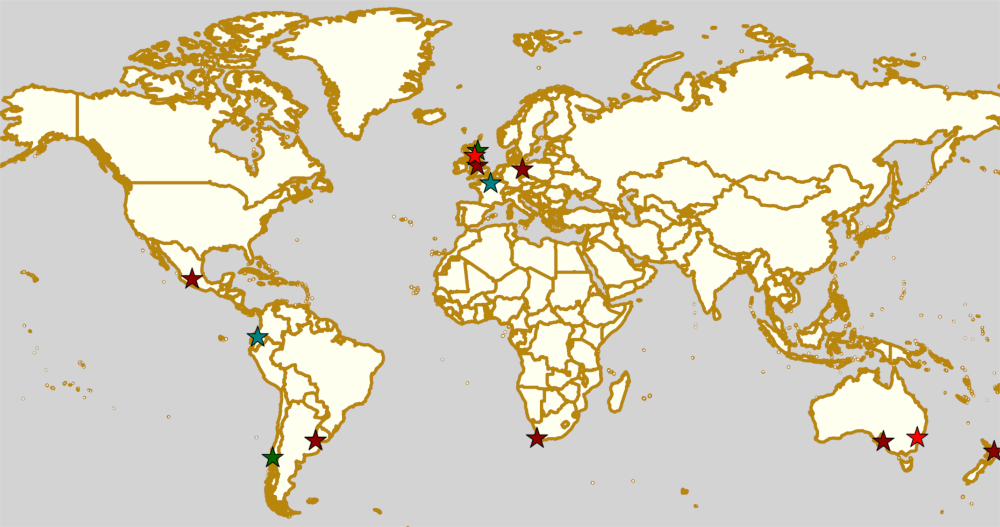
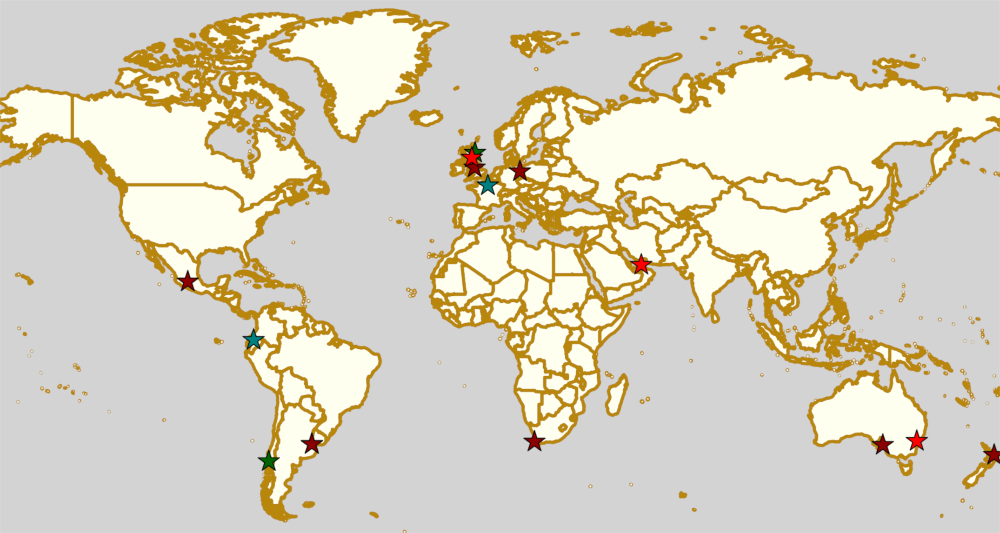
Add UAE Monday events, late announced, to the 03 Aug highlights + map

diff --git a/output/posts/highlights/2019/weekendhighlights-03082019/index.html b/output/posts/highlights/2019/weekendhighlights-03082019/index.html
@@ -51,6 +51,7 @@
         </div>
     <div>
 <p>This is another "all weekend in one update" set of highlights, although there are several exciting events this weekend: the first fixture of the Chilean national tournament, the Torneo X, in Valdivia; the MRDA Men's European Qualifiers in Aberdeen; and Argentina meet Uruguay in Buenos Aires, for one of Tempestad Roller Derby's first games (plus raising funds for 2x4 to attend in WFTDA Playoffs).</p>
+<p><em>This article was edited on the 1st August to include late announced events in Dubai</em></p>
 <p>The rules are, as usual: highlights limited to 1 event per country, with an "extra" event allowed for a different kind of fixture
 (so, 1 tournament and 1 bootcamp), or if they involve Scottish leagues (since we are the <em>Scottish</em> Roller Derby Blog).
 Other notability might also allow the extra event - great posters, notable teams, etc. (League birthdays may count as "special" enough, at our discretion ;) )</p>
@@ -91,6 +92,18 @@ as two parallel streams, after an introductory session, with the Refereeing stre
 </ul>
 <p>Event starts: 1600 Saturday (doors open)</p>
 <p>Venue: Adelaide Showground, Goodwood Rd, Adelaide, SA, Australia</p>
+</div>
+<div class="section" id="mon-dubai-united-arab-emirates">
+<h2>Mon: Dubai, United Arab Emirates</h2>
+<p><a class="reference external" href="https://www.facebook.com/events/2311418009124892/">[FACEBOOK LINK 1]</a>
+<a class="reference external" href="https://www.facebook.com/events/332134544333651/">[FACEBOOK LINK 2]</a></p>
+<p><a class="reference external" href="https://www.instagram.com/uaerollerderby/">UAE Roller Derby All-Stars</a> are having some international coaching fun, as <a class="reference external" href="http://www.durbanrollerderby.co.za/">Durban Roller Derby</a>'s LuciFear visits to host a bootcamp on the Monday, and then, in collaboration with Chicks and Bowls UAE, spend some time on the ramps on the Tuesday.</p>
+<ul class="simple">
+<li>Monday: Bootcamp (Footwork and contact drills)</li>
+<li>Tuesday: "Skate Park Adventures"</li>
+</ul>
+<p>Event starts: 1900 Monday (bootcamp)</p>
+<p>Venue: Aktiv Nation, Al Quoz, Dubai, United Arab Emirates (bootcamp) ; Townsquare Dubai Skate Park (skating)</p>
 </div>
 <div class="section" id="sat-berlin-germany">
 <h2>Sat: Berlin, Germany</h2>

diff --git a/output/index.html b/output/index.html
@@ -45,6 +45,7 @@
             </div>
         <div>
 <p>This is another "all weekend in one update" set of highlights, although there are several exciting events this weekend: the first fixture of the Chilean national tournament, the Torneo X, in Valdivia; the MRDA Men's European Qualifiers in Aberdeen; and Argentina meet Uruguay in Buenos Aires, for one of Tempestad Roller Derby's first games (plus raising funds for 2x4 to attend in WFTDA Playoffs).</p>
+<p><em>This article was edited on the 1st August to include late announced events in Dubai</em></p>
 <p>The rules are, as usual: highlights limited to 1 event per country, with an "extra" event allowed for a different kind of fixture
 (so, 1 tournament and 1 bootcamp), or if they involve Scottish leagues (since we are the <em>Scottish</em> Roller Derby Blog).
 Other notability might also allow the extra event - great posters, notable teams, etc. (League birthdays may count as "special" enough, at our discretion ;) )</p>

diff --git a/output/posts/highlights/2019/weekendhighlights-03082019/index.rst b/output/posts/highlights/2019/weekendhighlights-03082019/index.rst
@@ -10,6 +10,8 @@
 
 This is another "all weekend in one update" set of highlights, although there are several exciting events this weekend: the first fixture of the Chilean national tournament, the Torneo X, in Valdivia; the MRDA Men's European Qualifiers in Aberdeen; and Argentina meet Uruguay in Buenos Aires, for one of Tempestad Roller Derby's first games (plus raising funds for 2x4 to attend in WFTDA Playoffs).
 
+*This article was edited on the 1st August to include late announced events in Dubai*
+
 The rules are, as usual: highlights limited to 1 event per country, with an "extra" event allowed for a different kind of fixture
 (so, 1 tournament and 1 bootcamp), or if they involve Scottish leagues (since we are the *Scottish* Roller Derby Blog).
 Other notability might also allow the extra event - great posters, notable teams, etc. (League birthdays may count as "special" enough, at our discretion ;) )
@@ -88,6 +90,28 @@ Sat: Adelaide, SA, Australia
 Event starts: 1600 Saturday (doors open)
 
 Venue: Adelaide Showground, Goodwood Rd, Adelaide, SA, Australia
+
+Mon: Dubai, United Arab Emirates
+--------------------------------
+
+`[FACEBOOK LINK 1]`__
+`[FACEBOOK LINK 2]`__
+
+.. __: https://www.facebook.com/events/2311418009124892/
+.. __: https://www.facebook.com/events/332134544333651/
+
+
+`UAE Roller Derby All-Stars`_ are having some international coaching fun, as `Durban Roller Derby`_'s LuciFear visits to host a bootcamp on the Monday, and then, in collaboration with Chicks and Bowls UAE, spend some time on the ramps on the Tuesday.
+
+.. _UAE Roller Derby All-Stars: https://www.instagram.com/uaerollerderby/
+.. _Durban Roller Derby: http://www.durbanrollerderby.co.za/
+
+- Monday: Bootcamp (Footwork and contact drills)
+- Tuesday: "Skate Park Adventures"
+
+Event starts: 1900 Monday (bootcamp)
+
+Venue: Aktiv Nation, Al Quoz, Dubai, United Arab Emirates (bootcamp) ; Townsquare Dubai Skate Park (skating)
 
 
 Sat: Berlin, Germany

diff --git a/posts/highlights/2019/wknd-02Aug2019.rst b/posts/highlights/2019/wknd-02Aug2019.rst
@@ -10,6 +10,8 @@
 
 This is another "all weekend in one update" set of highlights, although there are several exciting events this weekend: the first fixture of the Chilean national tournament, the Torneo X, in Valdivia; the MRDA Men's European Qualifiers in Aberdeen; and Argentina meet Uruguay in Buenos Aires, for one of Tempestad Roller Derby's first games (plus raising funds for 2x4 to attend in WFTDA Playoffs).
 
+*This article was edited on the 1st August to include late announced events in Dubai*
+
 The rules are, as usual: highlights limited to 1 event per country, with an "extra" event allowed for a different kind of fixture
 (so, 1 tournament and 1 bootcamp), or if they involve Scottish leagues (since we are the *Scottish* Roller Derby Blog).
 Other notability might also allow the extra event - great posters, notable teams, etc. (League birthdays may count as "special" enough, at our discretion ;) )
@@ -88,6 +90,28 @@ Sat: Adelaide, SA, Australia
 Event starts: 1600 Saturday (doors open)
 
 Venue: Adelaide Showground, Goodwood Rd, Adelaide, SA, Australia
+
+Mon: Dubai, United Arab Emirates
+--------------------------------
+
+`[FACEBOOK LINK 1]`__
+`[FACEBOOK LINK 2]`__
+
+.. __: https://www.facebook.com/events/2311418009124892/
+.. __: https://www.facebook.com/events/332134544333651/
+
+
+`UAE Roller Derby All-Stars`_ are having some international coaching fun, as `Durban Roller Derby`_'s LuciFear visits to host a bootcamp on the Monday, and then, in collaboration with Chicks and Bowls UAE, spend some time on the ramps on the Tuesday.
+
+.. _UAE Roller Derby All-Stars: https://www.instagram.com/uaerollerderby/
+.. _Durban Roller Derby: http://www.durbanrollerderby.co.za/
+
+- Monday: Bootcamp (Footwork and contact drills)
+- Tuesday: "Skate Park Adventures"
+
+Event starts: 1900 Monday (bootcamp)
+
+Venue: Aktiv Nation, Al Quoz, Dubai, United Arab Emirates (bootcamp) ; Townsquare Dubai Skate Park (skating)
 
 
 Sat: Berlin, Germany
